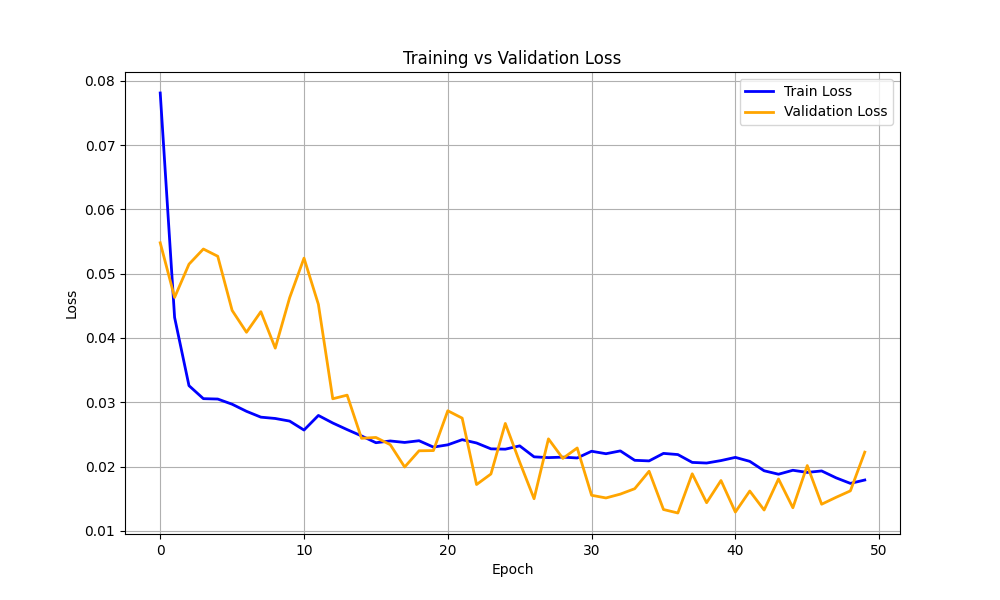
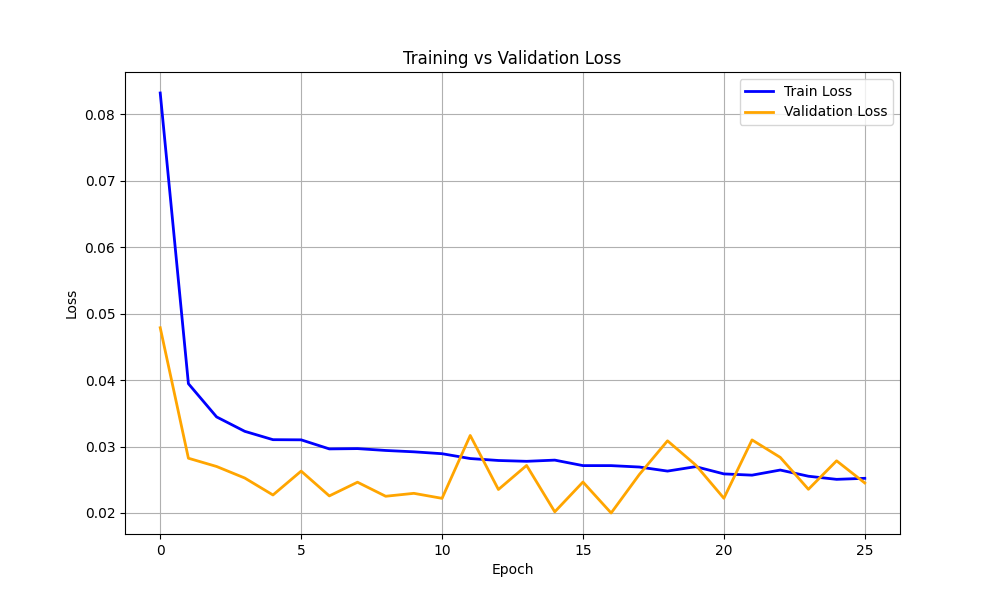
add back random split

diff --git a/train.py b/train.py
@@ -5,8 +5,9 @@ from torch.utils.data import DataLoader
 from hyperparameters import Hyperparameters
 from log_level import LogLevel
 from numpy import arange
+from model import RNN_Model, FeedForwardModel
 
-PATIENCE = 15
+PATIENCE = 10
 
 def train(model: nn.Module, train_data: DataLoader, val_data: DataLoader, epochs: int, hp: Hyperparameters) -> dict:
     epochs_since_last_improvement = 0
@@ -27,11 +28,9 @@ def train(model: nn.Module, train_data: DataLoader, val_data: DataLoader, epochs
             # Forward pass
             hp.optimizer.zero_grad()
             outputs = model(input_points) # model returns shape (window_size, batch, 1)
-            # targets contains labels for all input points + the one at the end of the sequence that isn't used as input (y)
-            # targets = input_points[0, 1:]
-            # targets = torch.cat((targets, target))
-            # print (f"outputs shape: {outputs.shape} -- targets shape: {targets.shape}")
-            loss = hp.loss_function(outputs, target.unsqueeze(0))
+            if model.modelname == "FeedForward":
+                target = target.unsqueeze(0)
+            loss = hp.loss_function(outputs, target)
             train_loss += loss.item()
 
             # Backward pass and optimization
@@ -81,7 +80,8 @@ def test(test_set: DataLoader, model: nn.Module, hp: Hyperparameters) -> tuple[f
         mae_losses = []
         for inputs, target in test_set:
             output = model(inputs)
-            target = target.unsqueeze(0)
+            if model.modelname == "FeedForward":
+                target = target.unsqueeze(0)
             loss = hp.loss_function(output, target)
             mse_loss = nn.MSELoss()(output, target)
             mae_loss = nn.L1Loss()(output, target)
@@ -94,7 +94,7 @@ def test(test_set: DataLoader, model: nn.Module, hp: Hyperparameters) -> tuple[f
     return avg_loss, avg_mse_loss, avg_mae_loss
 
 
-def predict(test_set: DataLoader, train_data: DataLoader, model: nn.Module) -> tuple[list[float], list[float], float, float]:
+def predict(test_set: DataLoader, model: nn.Module) -> tuple[list[float], list[float], float, float]:
     model.eval()
     mae_loss = nn.L1Loss()
     mse_loss = nn.MSELoss()
@@ -113,12 +113,11 @@ def predict(test_set: DataLoader, train_data: DataLoader, model: nn.Module) -> t
             else:
                 # Pop and push
                 outputs = outputs[:, 1:]  # Assuming outputs is a 2D tensor
-                # output_tensor = output.unsqueeze(1)  # Ensure the new output has the correct shape
+                if model.modelname == "RNN":
+                    output = output.unsqueeze(0)
                 outputs = torch.cat((outputs, output), dim=1)
                 input = torch.tensor(outputs)
-            # print (f"Input: {input}")
             output = model(input)
-            # print (f"Output: {output}")
             predictions.append(output.item())
             targets.append(target.item())
             mae_avg += mae_loss(output, data).item()

diff --git a/dataloader.py b/dataloader.py
@@ -15,6 +15,13 @@ class CustomDataset(Dataset):
 
     def __getitem__(self, index):
         # Return input data point and its successor ground truth point
+        if index >= len(self.x) - 1:
+            print (f"index {index} out of bounds for dataset of size {len(self.x)}")
+            index = len(self.x) - 2
+        if index < self.window_size:
+            print (f"index {index} out of bounds for dataset of size {len(self.x)}")
+            index = self.window_size
+
         return torch.tensor(self.x[index - self.window_size : index], dtype=torch.float32, device=self.device), \
             torch.tensor(self.x[index + 1], dtype=torch.float32, device=self.device)
 
@@ -22,7 +29,7 @@ class CustomDataset(Dataset):
         # Return the total number of samples
         return len(self.x)
 
-def load_data(window_size: int, device: torch.device) -> tuple[DataLoader, DataLoader]:
+def load_data(window_size: int, device: torch.device, randomsplit: bool = False) -> tuple[DataLoader, DataLoader]:
     mat_data = scipy.io.loadmat('Xtrain.mat')
     # Load and squeeze the actual data
     data = mat_data['Xtrain']
@@ -35,11 +42,18 @@ def load_data(window_size: int, device: torch.device) -> tuple[DataLoader, DataL
     # split training and validation 80:20
     training_data = []
     validation_data = []
-    for i in range(window_size, (int)(len(dataset) * 0.8 - 1)):
-        training_data.append(dataset[i])
-        
-    for i in range((int)(len(dataset) * 0.8 - 1) + window_size, len(dataset) - 1):
-        validation_data.append(dataset[i])
+
+    if randomsplit:
+        training_data, validation_data = random_split(dataset,
+            [int(len(dataset) * 0.8), len(dataset) - int(len(dataset) * 0.8)],
+            generator=torch.Generator().manual_seed(42)
+        )
+    else:
+        for i in range(window_size, (int)(len(dataset) * 0.8 - 1)):
+            training_data.append(dataset[i])
+
+        for i in range((int)(len(dataset) * 0.8 - 1) + window_size, len(dataset) - 1):
+            validation_data.append(dataset[i])
 
     train_dataloader = DataLoader(training_data, batch_size=1)
     validation_data = DataLoader(validation_data, batch_size=1)

diff --git a/main.py b/main.py
@@ -17,7 +17,7 @@ from const import SCALING_FACTOR
 from visualize import visualize_training, visualize_predictions
 
 DATA_DIR = "data"
-CHECKPOINT = "checkpoints/FeedForward_weights_WS5_NAdam_LR0.001_L1Loss_50.pth"
+CHECKPOINT = "checkpoints/RNN_weights_WS5_NAdam_LR0.001_L1Loss_50.pth"
 FINAL_WINDOW_SIZE = 5
 
 #HYPERPARAMETERS = {
@@ -47,10 +47,10 @@ def do_train():
     )
 
     for window_size, optimizer, learning_rate, loss_function, epochs in hyperparameter_combinations:
-        train_data, val_data = load_data(window_size, device)
+        train_data, val_data = load_data(window_size, device, randomsplit=True)
 
-        # model = RNN_Model(1, 10, window_size, 3)
-        model = FeedForwardModel(window_size, 10, 3)
+        model = RNN_Model(1, 32, 3)
+        # model = FeedForwardModel(window_size, 10, 3)
 
         model.init_weights()
         model.to(device)
@@ -83,13 +83,13 @@ def do_train():
 
 
 def do_predict():
-    train_data, val_data = load_data(FINAL_WINDOW_SIZE, device)
-    # model = RNN_Model(1, 10, 1, 10)
-    model = FeedForwardModel(FINAL_WINDOW_SIZE, 10, 3)
+    train_data, val_data = load_data(FINAL_WINDOW_SIZE, device, randomsplit=False)
+    model = RNN_Model(1, 32, 3)
+    # model = FeedForwardModel(FINAL_WINDOW_SIZE, 10, 3)
     model.load_state_dict(torch.load(CHECKPOINT))
     model.to(device)
 
-    outputs, targets, mse, mae = predict(val_data, train_data, model)
+    outputs, targets, mse, mae = predict(val_data, model)
     print(f"Mean Squared Error: {mse}")
     print(f"Mean Absolute Error: {mae}")
 

diff --git a/model.py b/model.py
@@ -9,19 +9,17 @@ class RNN_Model(nn.Module):
     modelname = "RNN"
     input_size: int
     hidden_size: int
-    window_size: int
     num_layers: int
     activation_function: nn.Module
 
-    def __init__(self, input_size: int, hidden_size: int, window_size: int, num_layers: int):
+    def __init__(self, input_size: int, hidden_size: int, num_layers: int):
         super(RNN_Model, self).__init__()
         self.input_size = input_size
         self.hidden_size = hidden_size
-        self.window_size = window_size
         self.num_layers = num_layers
 
         self.rnn = nn.RNN(input_size, hidden_size, num_layers=num_layers, dropout=0.2, batch_first=True)
-        self.fc = nn.Linear(hidden_size, input_size)
+        self.fc = nn.Linear(hidden_size, 1)
 
     def forward(self, x):
         h0 = torch.zeros((self.num_layers, self.hidden_size), device=x.device)
